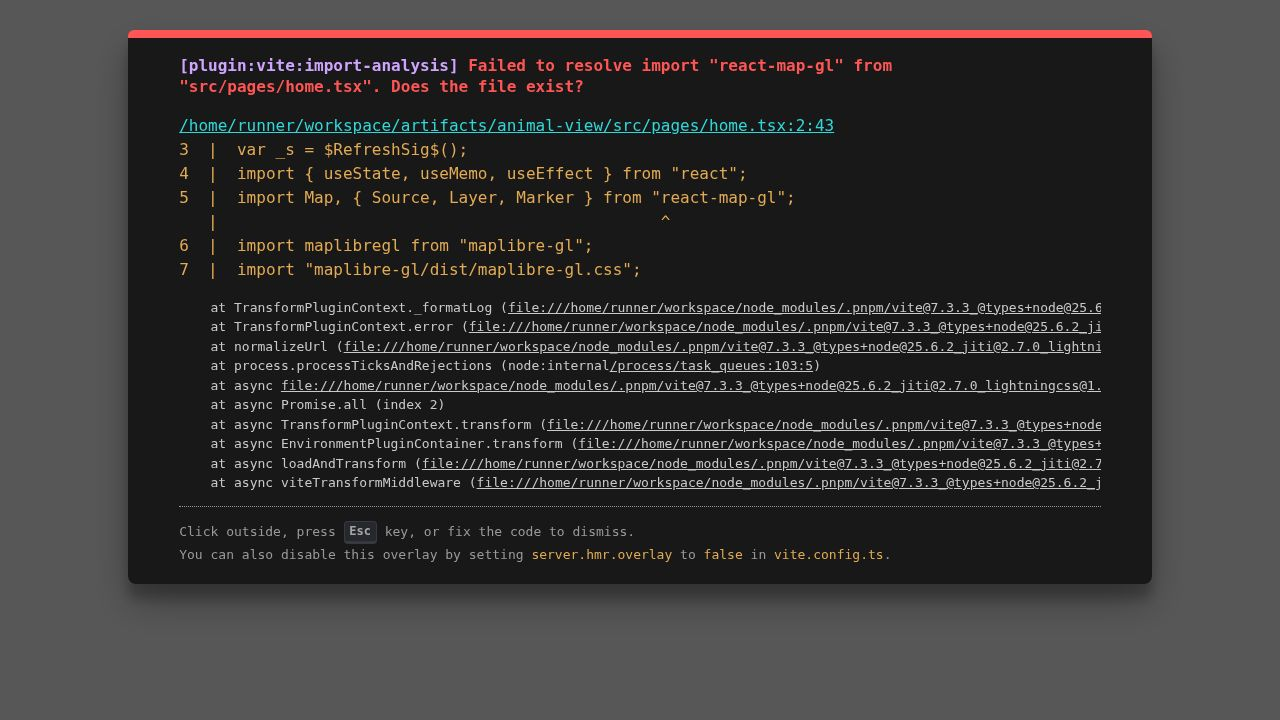
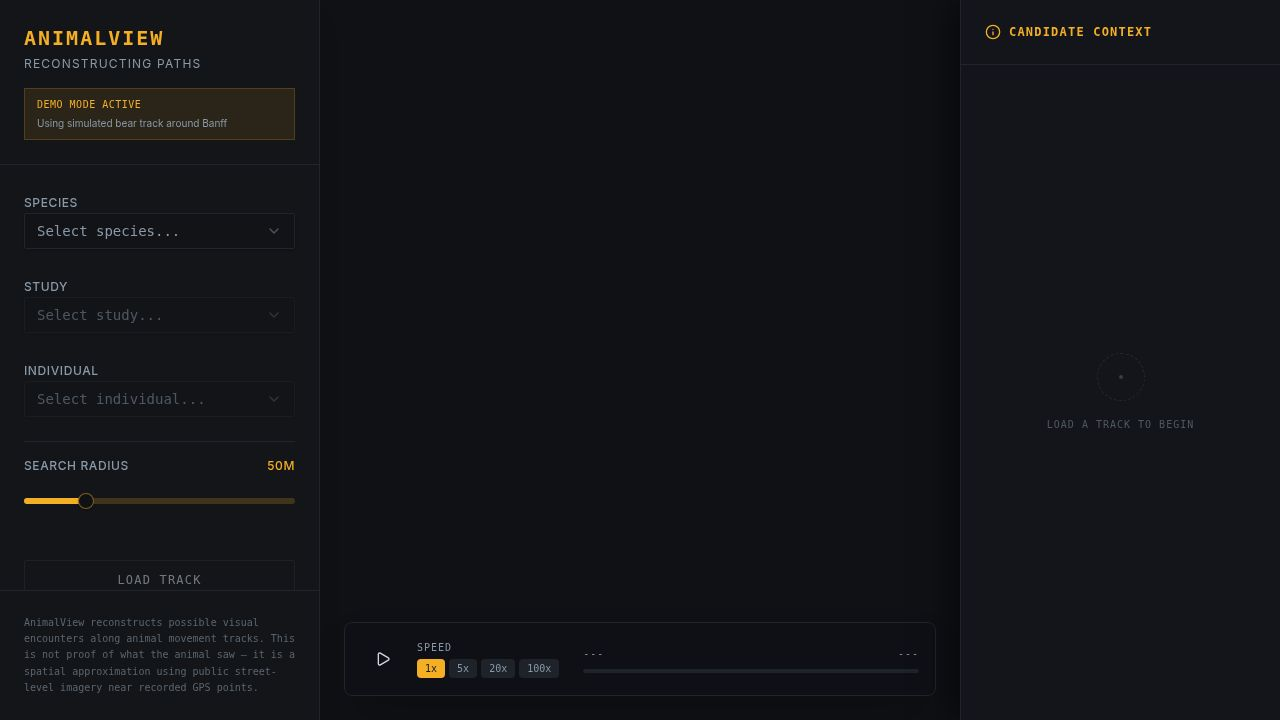
Add Movebank integration to fetch real animal studies and individual data
Integrate Movebank API to fetch study and individual data, replacing hardcoded demo data in catalog routes. Includes CSV parsing, authentication, and caching mechanisms.

Replit-Commit-Author: Agent
Replit-Commit-Session-Id: 27fcc058-1e92-43da-b5f2-1e158d23f884
Replit-Commit-Checkpoint-Type: full_checkpoint
Replit-Commit-Event-Id: d54a299a-878f-4750-9240-c41b255f3cc7
Replit-Commit-Screenshot-Url: https://storage.googleapis.com/screenshot-production-us-central1/28f9a1ac-3591-4c18-9ab3-cc9936b376a3/27fcc058-1e92-43da-b5f2-1e158d23f884/3kHtHcN
Replit-Helium-Checkpoint-Created: true

diff --git a/artifacts/api-server/src/lib/movebank.ts b/artifacts/api-server/src/lib/movebank.ts
@@ -1,0 +1,118 @@
+function parseCsv(text: string): Record<string, string>[] {
+  const lines = text.trim().split(/\r?\n/);
+  if (lines.length < 2) return [];
+  const header = splitCsvLine(lines[0]!);
+  const rows: Record<string, string>[] = [];
+  for (let i = 1; i < lines.length; i++) {
+    const cols = splitCsvLine(lines[i]!);
+    const row: Record<string, string> = {};
+    for (let j = 0; j < header.length; j++) {
+      row[header[j]!] = cols[j] ?? "";
+    }
+    rows.push(row);
+  }
+  return rows;
+}
+
+function splitCsvLine(line: string): string[] {
+  const out: string[] = [];
+  let cur = "";
+  let inQuotes = false;
+  for (let i = 0; i < line.length; i++) {
+    const ch = line[i];
+    if (inQuotes) {
+      if (ch === '"' && line[i + 1] === '"') {
+        cur += '"';
+        i++;
+      } else if (ch === '"') {
+        inQuotes = false;
+      } else {
+        cur += ch;
+      }
+    } else {
+      if (ch === '"') inQuotes = true;
+      else if (ch === ",") {
+        out.push(cur);
+        cur = "";
+      } else cur += ch;
+    }
+  }
+  out.push(cur);
+  return out;
+}
+
+async function movebankFetch(
+  params: Record<string, string>,
+): Promise<Record<string, string>[]> {
+  const user = process.env["MOVEBANK_USERNAME"];
+  const pass = process.env["MOVEBANK_PASSWORD"];
+  if (!user || !pass) return [];
+  const qs = new URLSearchParams(params);
+  const auth = Buffer.from(`${user}:${pass}`).toString("base64");
+  const r = await fetch(
+    `https://www.movebank.org/movebank/service/direct-read?${qs}`,
+    { headers: { Authorization: `Basic ${auth}` } },
+  );
+  if (!r.ok) return [];
+  return parseCsv(await r.text());
+}
+
+export type MovebankStudy = {
+  id: string;
+  name: string;
+  principalInvestigator?: string;
+  location?: string;
+};
+
+export type MovebankIndividual = {
+  id: string;
+  name: string;
+  sex?: string;
+};
+
+let studiesCache: { ts: number; rows: Record<string, string>[] } | null = null;
+
+async function getAllAccessibleStudies(): Promise<Record<string, string>[]> {
+  const now = Date.now();
+  if (studiesCache && now - studiesCache.ts < 5 * 60_000) {
+    return studiesCache.rows;
+  }
+  const rows = await movebankFetch({
+    entity_type: "study",
+    i_can_see_data: "true",
+  });
+  studiesCache = { ts: now, rows };
+  return rows;
+}
+
+export async function searchMovebankStudies(
+  scientificName: string,
+): Promise<MovebankStudy[]> {
+  const rows = await getAllAccessibleStudies();
+  const needle = scientificName.toLowerCase().split(" ")[0] ?? "";
+  const matches = rows.filter((r) => {
+    const taxa = (r["taxon_ids"] ?? "").toLowerCase();
+    return needle.length > 0 && taxa.includes(needle);
+  });
+  return matches.slice(0, 50).map((r) => ({
+    id: r["id"] ?? "",
+    name: r["name"] ?? r["id"] ?? "(unnamed study)",
+    principalInvestigator:
+      r["principal_investigator_name"] || r["contact_person_name"] || undefined,
+    location: r["study_objective"] || undefined,
+  }));
+}
+
+export async function listMovebankIndividuals(
+  studyId: string,
+): Promise<MovebankIndividual[]> {
+  const rows = await movebankFetch({
+    entity_type: "individual",
+    study_id: studyId,
+  });
+  return rows.slice(0, 200).map((r) => ({
+    id: r["local_identifier"] || r["id"] || "",
+    name: r["local_identifier"] || r["nick_name"] || r["id"] || "",
+    sex: r["sex"] || undefined,
+  }));
+}

diff --git a/artifacts/api-server/src/routes/catalog.ts b/artifacts/api-server/src/routes/catalog.ts
@@ -11,6 +11,11 @@ import {
   DEMO_STUDIES,
   DEMO_INDIVIDUALS,
 } from "../lib/demoData";
+import { hasMovebank } from "../lib/providers";
+import {
+  searchMovebankStudies,
+  listMovebankIndividuals,
+} from "../lib/movebank";
 
 const router: IRouter = Router();
 
@@ -19,26 +24,52 @@ router.get("/species", (_req, res) => {
   res.json(data);
 });
 
-router.get("/studies", (req, res) => {
+router.get("/studies", async (req, res) => {
   const parsed = ListStudiesQueryParams.safeParse(req.query);
   if (!parsed.success) {
     res.status(400).json({ error: "species query param required" });
     return;
   }
-  const studies = DEMO_STUDIES[parsed.data.species] ?? [];
-  const data = ListStudiesResponse.parse({ studies });
+  const demoStudies = DEMO_STUDIES[parsed.data.species] ?? [];
+  let realStudies: typeof demoStudies = [];
+  if (hasMovebank()) {
+    const sp = DEMO_SPECIES.find((s) => s.id === parsed.data.species);
+    if (sp) {
+      try {
+        realStudies = await searchMovebankStudies(sp.scientificName);
+      } catch (err) {
+        req.log.warn({ err }, "movebank studies fetch failed");
+      }
+    }
+  }
+  const data = ListStudiesResponse.parse({
+    studies: [...realStudies, ...demoStudies],
+  });
   res.json(data);
 });
 
-router.get("/individuals", (req, res) => {
+router.get("/individuals", async (req, res) => {
   const parsed = ListIndividualsQueryParams.safeParse(req.query);
   if (!parsed.success) {
     res.status(400).json({ error: "studyId query param required" });
     return;
   }
-  const individuals = DEMO_INDIVIDUALS[parsed.data.studyId] ?? [];
-  const data = ListIndividualsResponse.parse({ individuals });
-  res.json(data);
+  const { studyId } = parsed.data;
+  if (studyId.startsWith("demo-")) {
+    const individuals = DEMO_INDIVIDUALS[studyId] ?? [];
+    res.json(ListIndividualsResponse.parse({ individuals }));
+    return;
+  }
+  if (hasMovebank()) {
+    try {
+      const individuals = await listMovebankIndividuals(studyId);
+      res.json(ListIndividualsResponse.parse({ individuals }));
+      return;
+    } catch (err) {
+      req.log.warn({ err }, "movebank individuals fetch failed");
+    }
+  }
+  res.json(ListIndividualsResponse.parse({ individuals: [] }));
 });
 
 export default router;